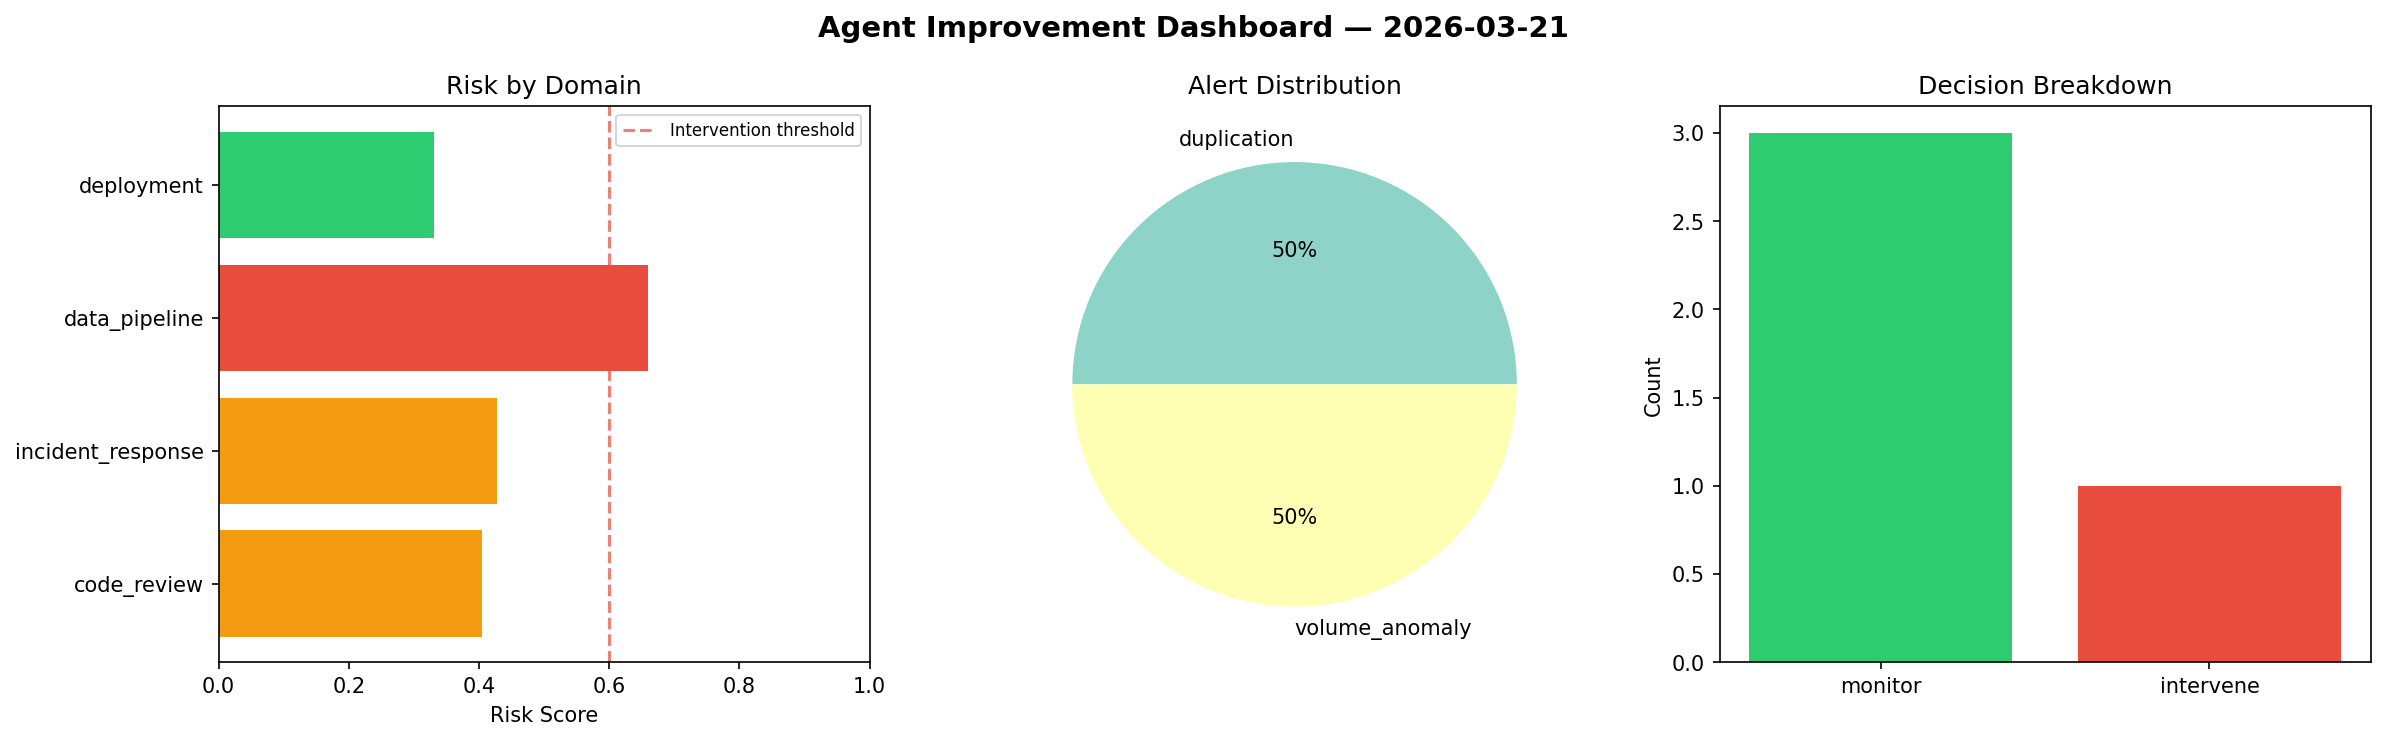
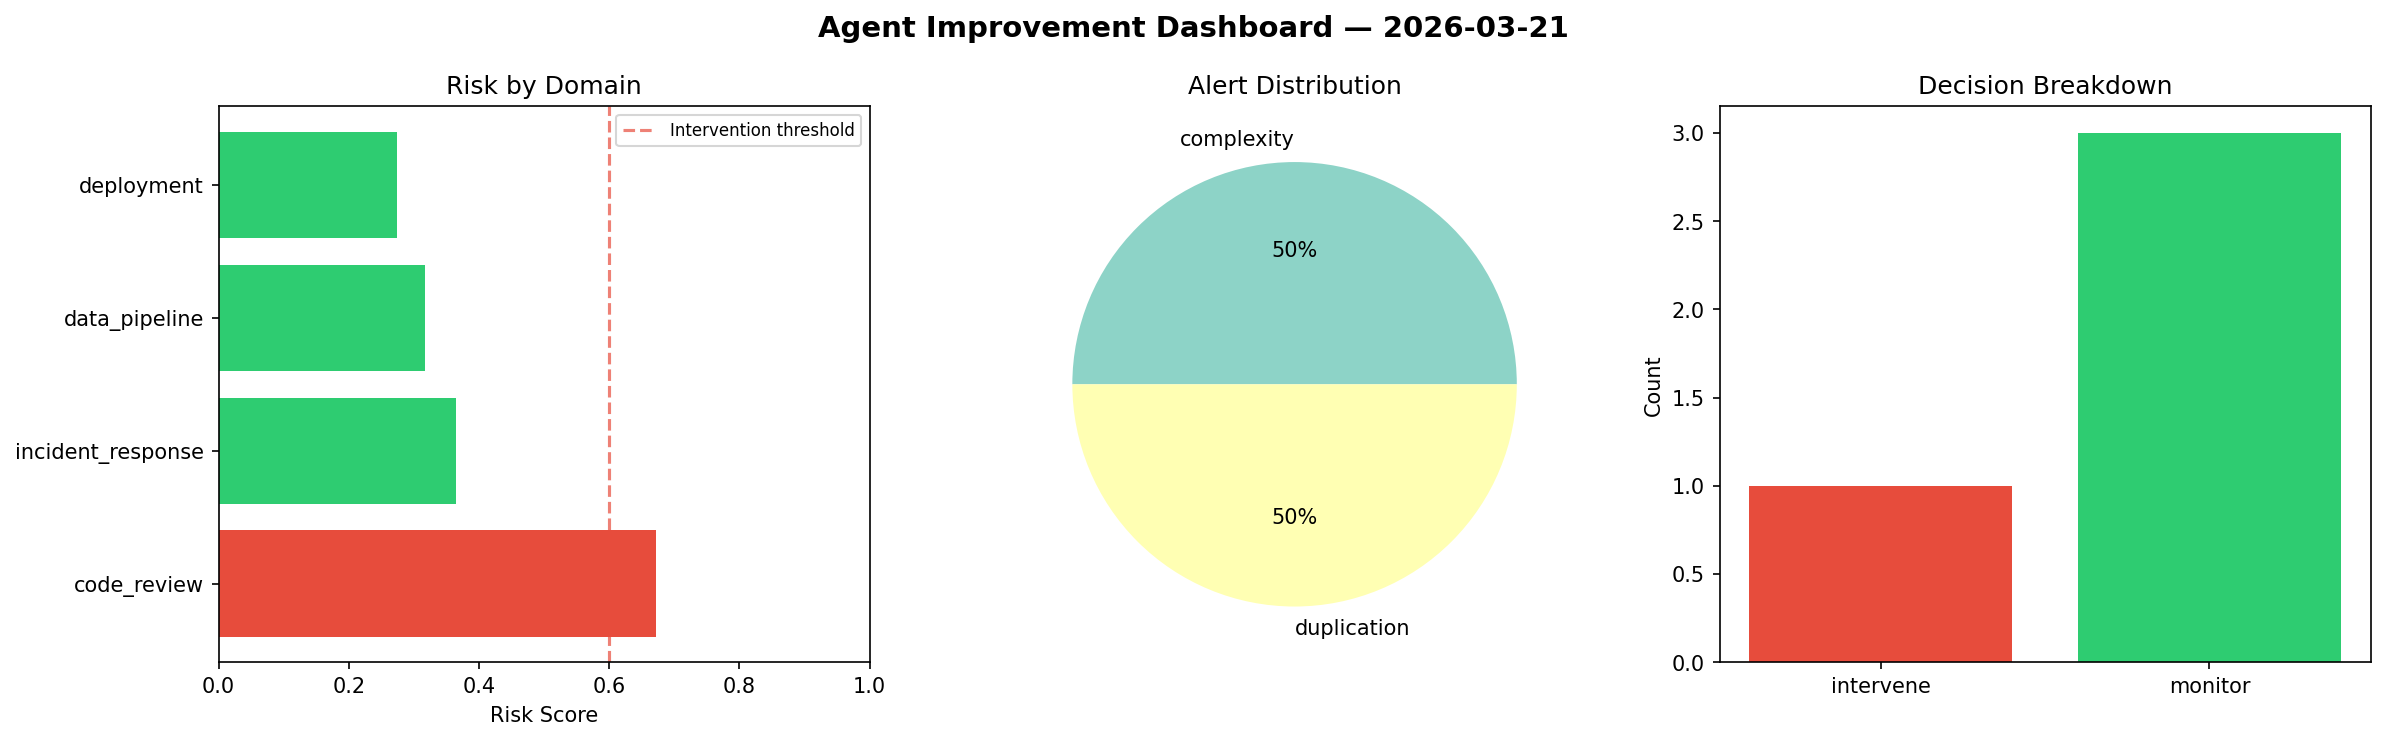
agent-improvement: daily cycle 2026-03-21T08:50

diff --git a/logs/2026-03-21.md b/logs/2026-03-21.md
@@ -1,6 +1,6 @@
 # Agent Improvement Report — 2026-03-21
 
-**Cycle ID:** `9a9c9897` | **Avg Risk:** 0.4561 | **Interventions:** 1/4
+**Cycle ID:** `387e371c` | **Avg Risk:** 0.4067 | **Interventions:** 1/4
 
 ![Dashboard](2026-03-21_dashboard.png)
 
@@ -10,18 +10,18 @@
 
 | Domain | Risk Score | Decision | Alerts |
 |--------|-----------|----------|--------|
-| code_review | 0.4051 | monitor | duplication |
-| incident_response | 0.4284 | monitor | none |
-| data_pipeline | 0.6593 | intervene | volume_anomaly |
-| deployment | 0.3316 | monitor | none |
+| code_review | 0.6714 | intervene | complexity, duplication |
+| incident_response | 0.3645 | monitor | none |
+| data_pipeline | 0.3163 | monitor | none |
+| deployment | 0.2746 | monitor | none |
 
 ## Delta vs Yesterday
 
 | Domain | Today | Yesterday | Change |
 |--------|-------|-----------|--------|
-| code_review | 0.4051 | 0.4806 | 📉 -15.7% |
-| incident_response | 0.4284 | 0.4064 | 📈 5.4% |
-| data_pipeline | 0.6593 | 0.3847 | 📈 71.4% |
-| deployment | 0.3316 | 0.5422 | 📉 -38.8% |
+| code_review | 0.6714 | 0.4806 | 📈 39.7% |
+| incident_response | 0.3645 | 0.4064 | 📉 -10.3% |
+| data_pipeline | 0.3163 | 0.3847 | 📉 -17.8% |
+| deployment | 0.2746 | 0.5422 | 📉 -49.4% |
 
 **Refinement:** `{'adjustment': 'maintain', 'trend': 'improving', 'window': 4}`
